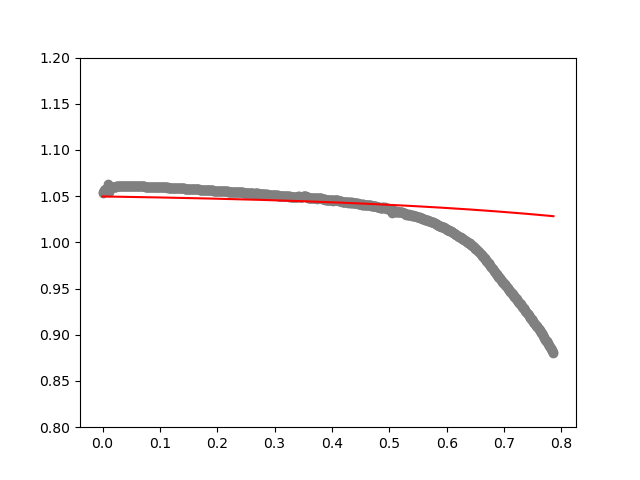
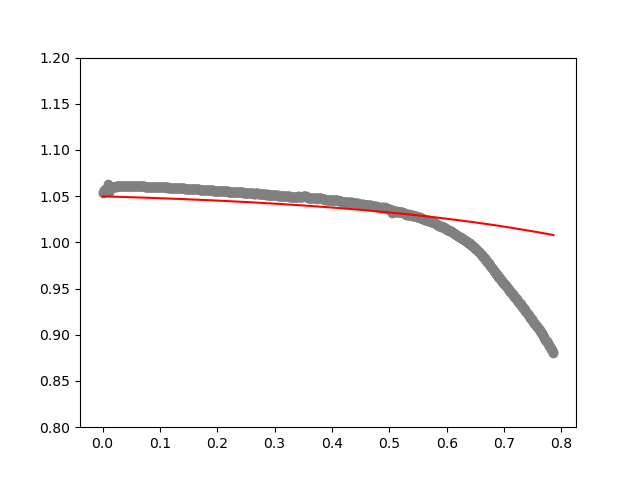
Latest bayes model, somewhat performant but some open questions

Changed region(s): [[0.1875, 0.4062, 0.875, 0.5]]

diff --git a/bayes.py b/bayes.py
@@ -13,8 +13,8 @@ from sklearn.metrics import mean_squared_error
 from sklearn.metrics import mean_absolute_percentage_error
 from common import generate_posterior_histograms, generate_traceplots
 
-MODEL_ID = 2 
-USE_CACHE = False
+MODEL_ID = 2
+USE_CACHE = True
 
 
 def create_summary_dfs(data):
@@ -95,7 +95,7 @@ def evaluate_fit(y_test, params, model_id, start_idx=100, scale=1000):
     return mse_store, rul_mape_store
 
 
-def plot_examples(y_test, test_bat_ids, params, model_id, num_plots=5, scale=1000):
+def plot_examples(y_test, test_bat_ids, params, model_id, num_plots=10, scale=1000):
     """Plot y_true vs y_pred for specified alpha, beta, gamma"""
     for i, id in enumerate(test_bat_ids):
         if i >= num_plots:
@@ -119,6 +119,7 @@ def plot_examples(y_test, test_bat_ids, params, model_id, num_plots=5, scale=100
 
 def create_features(train_data):
     """[PLACEHOLDER FUNCTION FOR KARTHIK"""
+    # print(train_data.groupby(['bat_id']).last().index)
     X_df = train_data.groupby(['bat_id']).last().reset_index(drop=True)
     X_df.columns = X_df.columns.str.lower()
 
@@ -345,19 +346,19 @@ if __name__ == '__main__':
         2: [np.ones(n)*2.5, np.ones(n)*2.5, np.ones(n)*1.1],  # shape, midpoint, asymptote
     }
     X_test = create_features(test_dat)
-    params = prepare_params_given_samples(fit, X_test)  # params = map[MODEL_ID]
-    # params = [fit['alpha'].mean(axis=1), fit['beta'].mean(axis=1), fit['gamma'].mean(axis=1)]
-    mse_store, rul_mape_store = evaluate_fit(y_test, params=params, model_id=MODEL_ID)  # y_test
+    # params = prepare_params_given_samples(fit, X_test)  # params = map[MODEL_ID]
+    params = [np.median(fit['alpha'], axis=1), np.median(fit['beta'], axis=1), np.median(fit['gamma'], axis=1)]
+    mse_store, rul_mape_store = evaluate_fit(y_train, params=params, model_id=MODEL_ID)  # y_test
 
     # write results
-    param_list_alpha = ['a_0', 'a_1', 'a_2', 'a_3', 'a_4', 'a_5']
-    generate_posterior_histograms(fit, param_list_alpha, prefix='bayes_alpha_')
-    generate_traceplots(fit, param_list_alpha, prefix='bayes_alpha_')
+    # param_list_alpha = ['a_0', 'a_1', 'a_2', 'a_3', 'a_4', 'a_5']
+    # generate_posterior_histograms(fit, param_list_alpha, prefix='bayes_alpha_')
+    # generate_traceplots(fit, param_list_alpha, prefix='bayes_alpha_')
 
-    param_list_beta = ['b_0', 'b_1', 'b_2', 'b_3', 'b_4', 'b_5']
-    generate_posterior_histograms(fit, param_list_beta, prefix='bayes_beta_')
-    generate_traceplots(fit, param_list_beta, prefix='bayes_beta_')
+    # param_list_beta = ['b_0', 'b_1', 'b_2', 'b_3', 'b_4', 'b_5']
+    # generate_posterior_histograms(fit, param_list_beta, prefix='bayes_beta_')
+    # generate_traceplots(fit, param_list_beta, prefix='bayes_beta_')
 
     print('MSE for Discharge Capacity: {}'.format(np.mean(mse_store)))
     print('MAPE for Remaining Useful Life: {}'.format(np.mean(rul_mape_store)))
-    plot_examples(y_test, test_bat_ids, params=params, model_id=MODEL_ID)  # test_bat_ids
+    plot_examples(y_train, train_bat_ids, params=params, model_id=MODEL_ID)  # test_bat_ids
